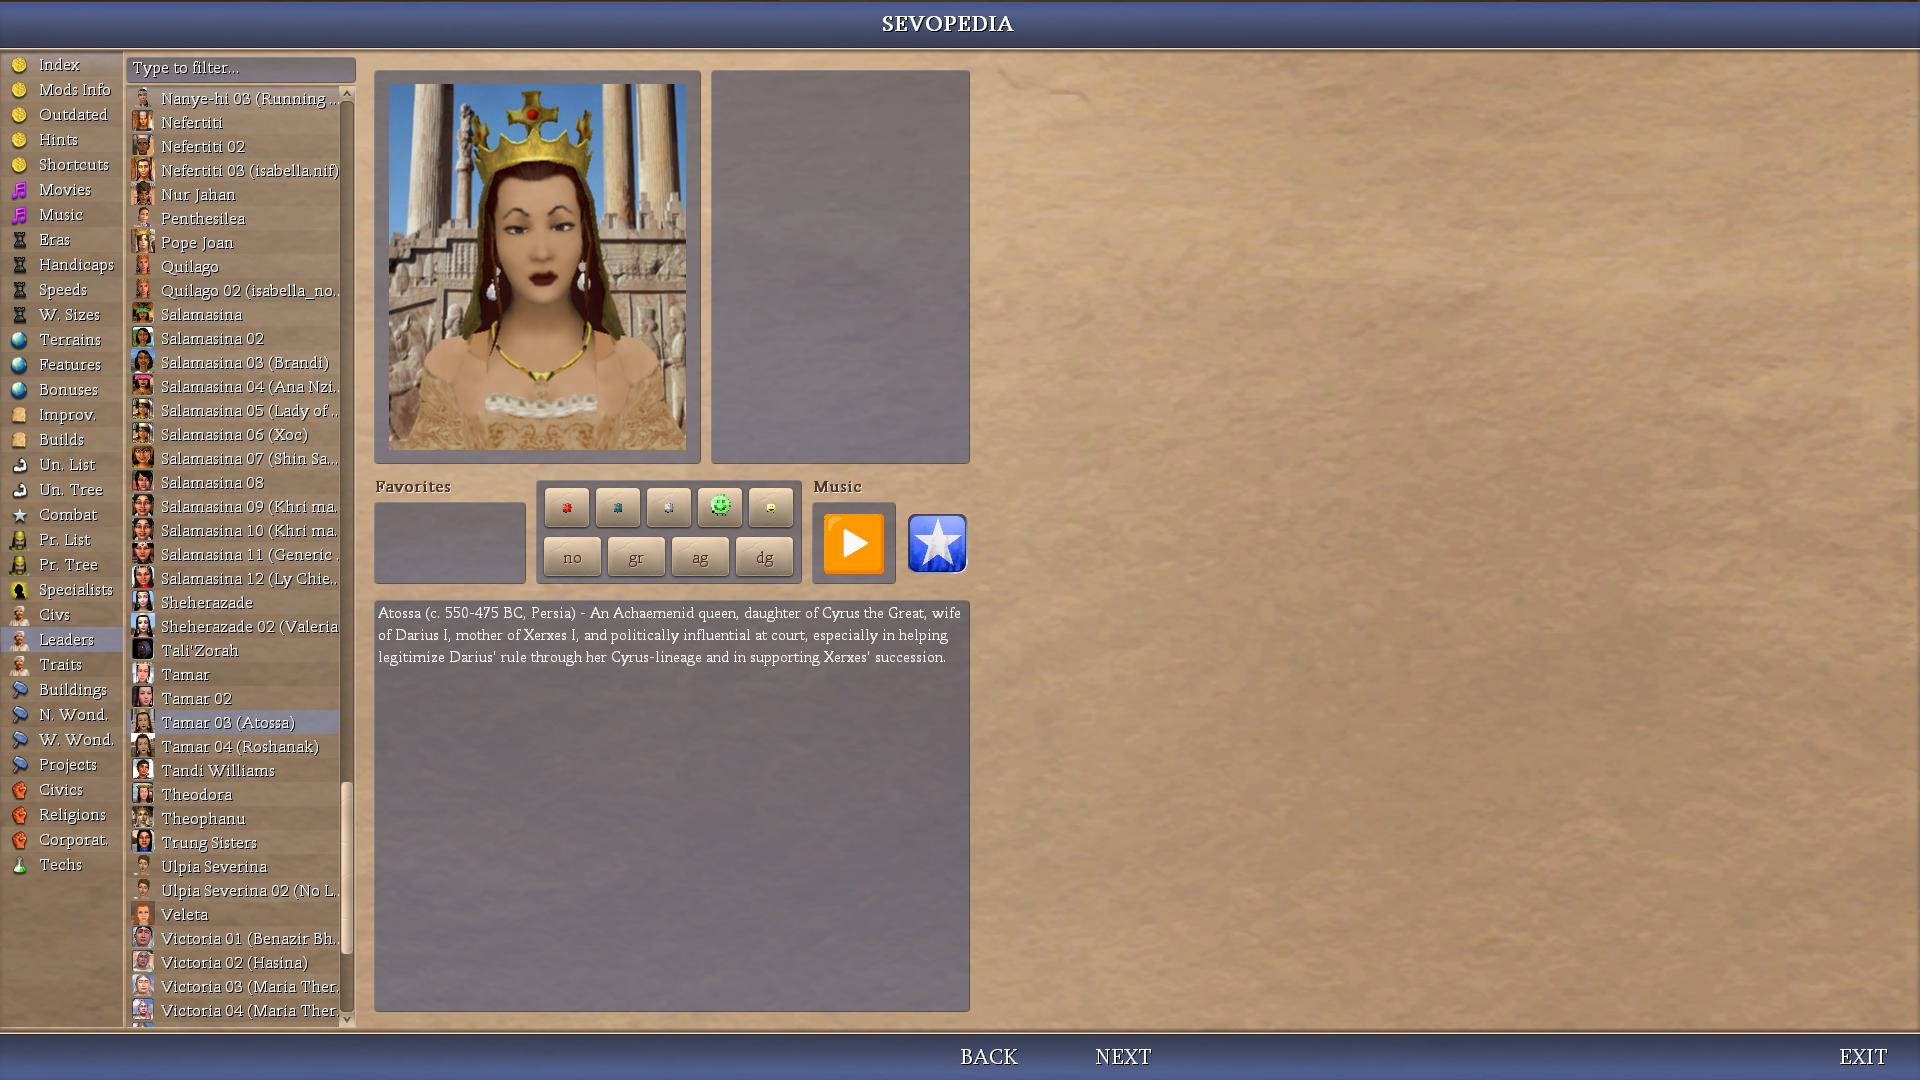
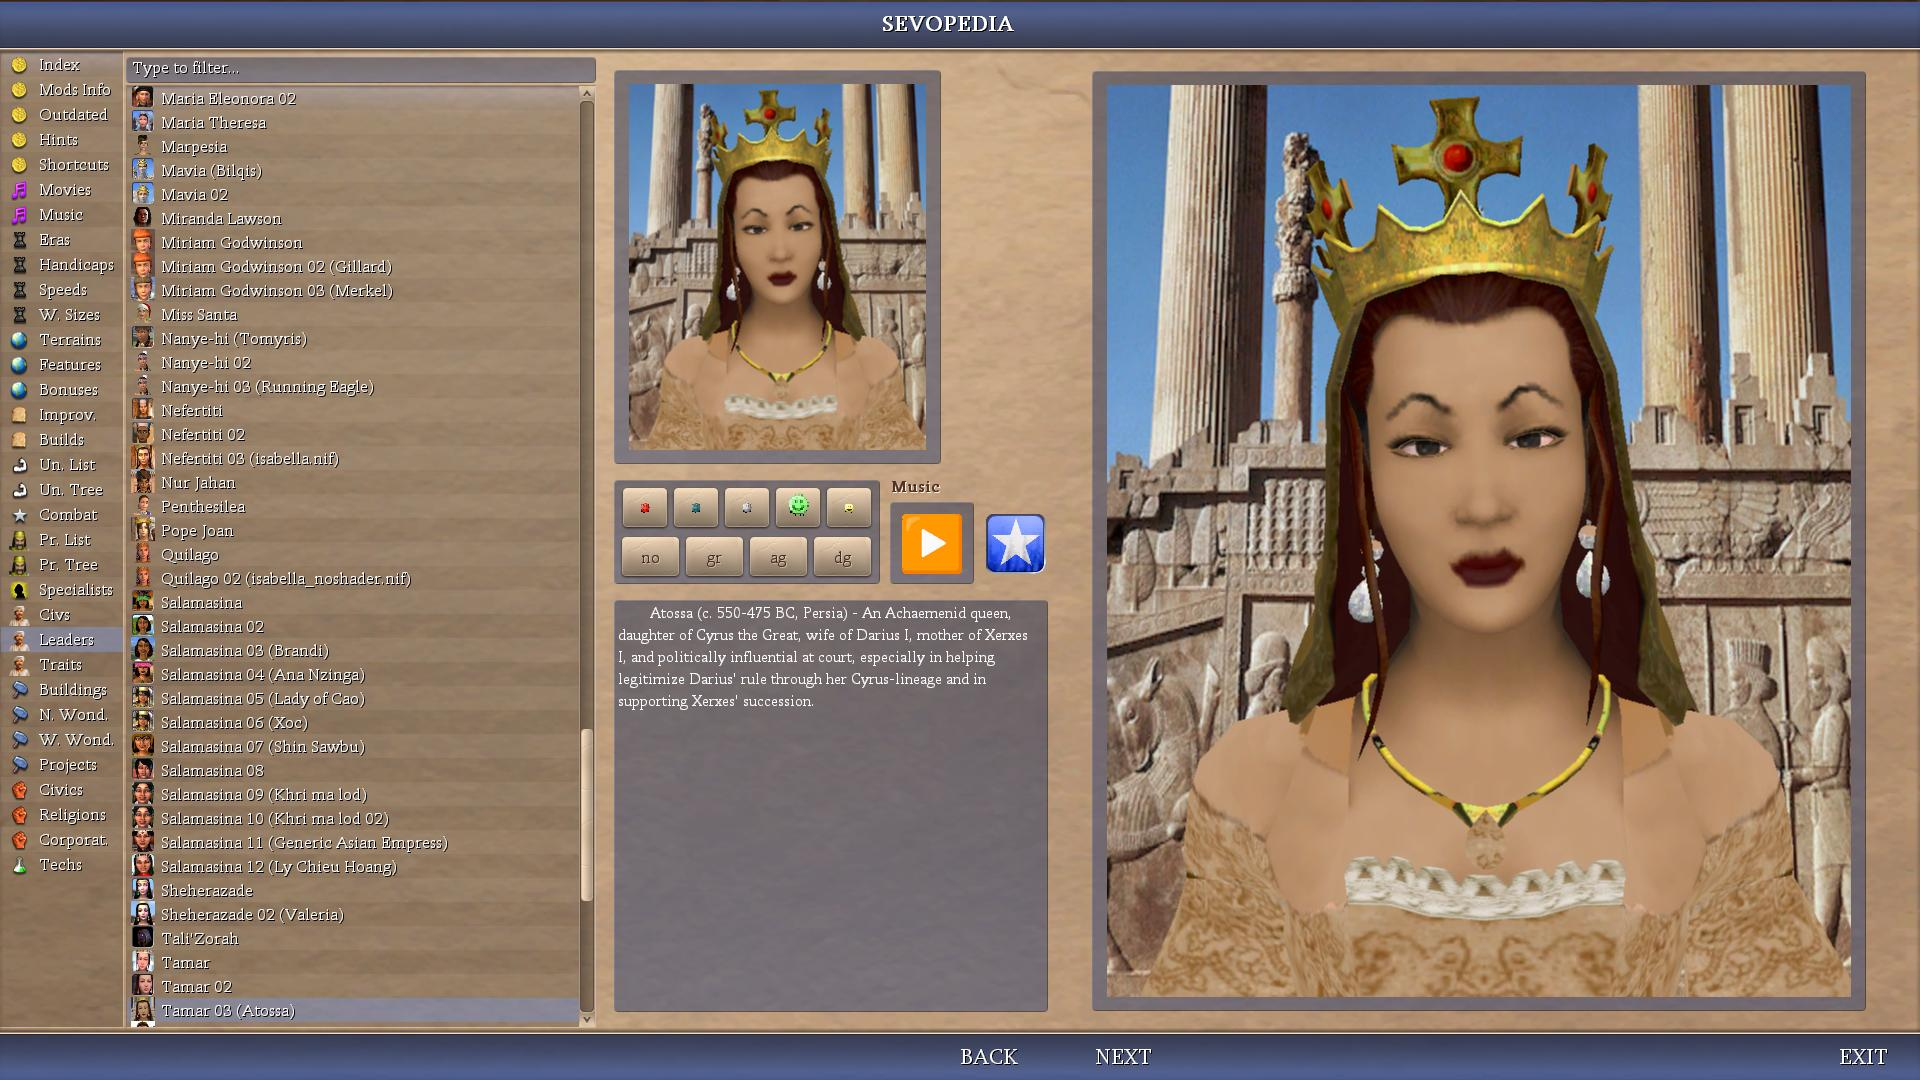
add large maximized NIF leader animation

diff --git a/Assets/Python/Contrib/Sevopedia/SevoPediaLeader.py b/Assets/Python/Contrib/Sevopedia/SevoPediaLeader.py
@@ -41,6 +41,8 @@ IS_SHOW_TRAIT_ICONS_IN_LEADER = (gc.getDefineINT("SAS_SEVOPEDIA_LEADER_TRAITS_SH
 IS_SAS_SHOW_LEGEND_LINK = (gc.getDefineINT("SAS_SHOW_LEGEND_LINK") > 0)
 IS_SAS_SEVOPEDIA_LEADER_AI_PERSONALITY_ENABLE = (gc.getDefineINT("SAS_SEVOPEDIA_LEADER_AI_PERSONALITY_ENABLE") > 0)
 IS_SAS_SEVOPEDIA_LEADER_ATTITUDE_EMOJI_ENABLE = (gc.getDefineINT("SAS_SEVOPEDIA_LEADER_ATTITUDE_EMOJI_ENABLE") > 0)
+IS_SAS_SEVOPEDIA_LEADER_SMALL_NIF_ENABLE = (gc.getDefineINT("SAS_SEVOPEDIA_LEADER_SMALL_NIF_ENABLE") > 0)
+IS_SAS_SEVOPEDIA_LEADER_LARGE_NIF_ENABLE = (gc.getDefineINT("SAS_SEVOPEDIA_LEADER_LARGE_NIF_ENABLE") > 0)
 SAS_PEDIA_PYTHON_LEADER_ATTITUDE = 6805
 SAS_PEDIA_PYTHON_LEADER_ACTION = 6806
 SAS_LEADER_ATTITUDE_PREVIEW_ORDER = (
@@ -118,6 +120,10 @@ class SevoPediaLeader:
 		self.H_CIV = 64
 		self.CIV_MARGIN = 0
 		self.CIV_DISELEVATION = 38
+		self.leaderWidget = None
+		self.leaderWidgetLarge = None
+		self.LEADERHEAD_LARGE_PANEL_WIDGET = None
+		self.IS_LARGE_LEADERHEAD_ACTIVE = False
 		
 		self.H_FAVORITES = NON_MULTILIST_PANEL_STANDARD_HEIGHT
 		self.N_AI_TABLE_NUM = 3
@@ -147,6 +153,7 @@ class SevoPediaLeader:
 	def _updateLayoutFromMain(self):
 		self.X_LEADERHEAD_PANE = self.top.X_PEDIA_PAGE
 		self.Y_LEADERHEAD_PANE = self.top.Y_PEDIA_PAGE
+		self.IS_COMPACT_LAYOUT_FOR_LARGE_NIF = (IS_SAS_SEVOPEDIA_LEADER_LARGE_NIF_ENABLE and not IS_SAS_SEVOPEDIA_LEADER_AI_PERSONALITY_ENABLE)
 
 		# <!-- custom: 2) (most) relative dimensions or positions then -->
 		self.W_LEADERHEAD = self.W_LEADERHEAD_PANE - 30
@@ -174,15 +181,24 @@ class SevoPediaLeader:
 
 		# <!-- custom: Favorites panel only needs two icons (favorite civic/religion), so size it with shared helper for a strict two-button layout. (GPT-5.3-Codex) -->
 		self.W_FAVORITES = get_panel_width_for_buttons(2, MULTILIST_BUTTON_SIZE, HYPOTHESIZED_NON_MULTILIST_PANEL_EDGE_PADDING, HYPOTHESIZED_NON_MULTILIST_PANEL_INTER_BUTTON_SPACING)
+		if self.IS_COMPACT_LAYOUT_FOR_LARGE_NIF:
+			self.W_HISTORY = max(0, self.W_HISTORY - (self.W_FAVORITES + self.SMALL_MARGIN))
 		# <!-- custom: layout order tweak: Favorites at left, then Music, then civ icon at far right. (GPT-5.3-Codex) -->
 		self.X_FAVORITES = self.X_LEADERHEAD_PANE
-		self.X_MUSIC = self.X_HISTORY + self.W_HISTORY - self.W_CIV - self.SMALL_MARGIN - self.W_MUSIC
 		self.Y_MUSIC = self.Y_FAVORITES
 		self.H_MUSIC = self.H_FAVORITES
-		self.X_ATTITUDES = self.X_FAVORITES + self.W_FAVORITES + self.SMALL_MARGIN
 		self.Y_ATTITUDES = self.Y_FAVORITES
-		self.W_ATTITUDES = self.X_MUSIC - self.X_ATTITUDES - self.SMALL_MARGIN
 		self.H_ATTITUDES = self.H_FAVORITES
+		if self.IS_COMPACT_LAYOUT_FOR_LARGE_NIF:
+			self.X_ATTITUDES = self.X_LEADERHEAD_PANE
+			self.W_ATTITUDES = self.W_HISTORY - self.W_MUSIC - self.W_CIV - (2 * self.SMALL_MARGIN)
+			if self.W_ATTITUDES < 0:
+				self.W_ATTITUDES = 0
+			self.X_MUSIC = self.X_ATTITUDES + self.W_ATTITUDES + self.SMALL_MARGIN
+		else:
+			self.X_MUSIC = self.X_HISTORY + self.W_HISTORY - self.W_CIV - self.SMALL_MARGIN - self.W_MUSIC
+			self.X_ATTITUDES = self.X_FAVORITES + self.W_FAVORITES + self.SMALL_MARGIN
+			self.W_ATTITUDES = self.X_MUSIC - self.X_ATTITUDES - self.SMALL_MARGIN
 
 		# <!-- custom: the rest of the coordinates here, as it is dependent on other coordinates we need first that (i.e. before being able to add these) -->
 		self.X_AI_PERSONALITY = self.top.R_PEDIA_PAGE - self.W_AI_PERSONALITY
@@ -193,8 +209,12 @@ class SevoPediaLeader:
 		self.Y_TRAITS = self.Y_LEADERHEAD_PANE
 		self.W_TRAITS = self.W_HISTORY - self.W_LEADERHEAD_PANE - self.SMALL_MARGIN
 		self.H_TRAITS = self.H_LEADERHEAD_PANE
+		self._updateLargeLeaderheadLayout()
 
-		self.X_CIV = self.X_HISTORY + self.W_HISTORY - self.CIV_MARGIN - self.W_CIV
+		if self.IS_COMPACT_LAYOUT_FOR_LARGE_NIF:
+			self.X_CIV = self.X_MUSIC + self.W_MUSIC + self.SMALL_MARGIN
+		else:
+			self.X_CIV = self.X_HISTORY + self.W_HISTORY - self.CIV_MARGIN - self.W_CIV
 		# <!-- custom: put the flag/civ at the middle Y of the favourites panel -->
 		# <!-- custom: quite high as compared to favourites panel's lowest point -->
 		self.Y_CIV = self.Y_FAVORITES + self.CIV_DISELEVATION
@@ -207,12 +227,15 @@ class SevoPediaLeader:
 
 		# <!-- custom: change call order to match filling/building order, generally from top left to bottom and left to right but not always, reordering in such a way is maybe a bit more intuitive this way perhaps or clearer or helpful or not or other etc anyways, -->
 		self.placeLeaderHeadPane()
-		self.placeFavorites()
+		self.placeLargeLeaderHeadPane()
+		if not self.IS_COMPACT_LAYOUT_FOR_LARGE_NIF:
+			self.placeFavorites()
 		self.placeMusic()
 		self.placeAttitudes()
 		self.placeHistory()
 		self.placeCiv()
-		self.placeTraits()
+		if not self.IS_LARGE_LEADERHEAD_ACTIVE:
+			self.placeTraits()
 		self.placeLegendLink()
 
 		# <!-- custom: for excluded leader indexes from calculations, leave the zone/space where the AI personality panel was supposed to be especially empty, instead of getting a key error or missing leader from leaders_info_cached; Long_Comments_py.txt #10 -->
@@ -227,11 +250,86 @@ class SevoPediaLeader:
 
 	# <!-- custom: wrap leader placement in a specific function for clarity or flexibility or not anyways, -->
 	def placeLeaderHeadPane(self):
+		if not IS_SAS_SEVOPEDIA_LEADER_SMALL_NIF_ENABLE:
+			self.leaderWidget = None
+			return
 		screen = self.top.getScreen()
 		leaderPanelWidget = self.top.getNextWidgetName()
 		screen.addPanel(leaderPanelWidget, "", "", True, True, self.X_LEADERHEAD_PANE, self.Y_LEADERHEAD_PANE, self.W_LEADERHEAD_PANE, self.H_LEADERHEAD_PANE, PanelStyles.PANEL_STYLE_BLUE50)
 		self.leaderWidget = self.top.getNextWidgetName()
 		screen.addLeaderheadGFC(self.leaderWidget, self.iLeader, self.iSelectedAttitude, self.X_LEADERHEAD, self.Y_LEADERHEAD, self.W_LEADERHEAD, self.H_LEADERHEAD, WidgetTypes.WIDGET_GENERAL, -1, -1)
+
+
+	# <!-- custom: optional large right-side leader animation for NIF gallery browsing; it keeps the same pane ratio as the main leader panel and scales to the largest size that fits the available right-side area. (GPT-5.3-Codex) -->
+	def _updateLargeLeaderheadLayout(self):
+		self.IS_LARGE_LEADERHEAD_ACTIVE = False
+		self.X_LEADERHEAD_LARGE_PANE = -1
+		self.Y_LEADERHEAD_LARGE_PANE = -1
+		self.W_LEADERHEAD_LARGE_PANE = 0
+		self.H_LEADERHEAD_LARGE_PANE = 0
+		self.X_LEADERHEAD_LARGE = -1
+		self.Y_LEADERHEAD_LARGE = -1
+		self.W_LEADERHEAD_LARGE = 0
+		self.H_LEADERHEAD_LARGE = 0
+
+		if not IS_SAS_SEVOPEDIA_LEADER_LARGE_NIF_ENABLE:
+			return
+		if IS_SAS_SEVOPEDIA_LEADER_AI_PERSONALITY_ENABLE:
+			return
+		if self.W_HISTORY <= 0:
+			return
+
+		# <!-- custom: use the true right-side reserve area (to the right of history/leader content), not the traits slot, so the large NIF fills that empty space. (GPT-5.3-Codex) -->
+		iAvailX = self.X_HISTORY + self.W_HISTORY + self.SMALL_MARGIN
+		iAvailY = self.top.Y_PEDIA_PAGE
+		iAvailW = self.top.R_PEDIA_PAGE - iAvailX
+		iAvailH = self.top.B_PEDIA_PAGE - iAvailY
+		if iAvailW <= 0 or iAvailH <= 0:
+			return
+		iPaneRatioW = self.W_LEADERHEAD_PANE
+		iPaneRatioH = self.H_LEADERHEAD_PANE
+
+		iFitW = min(iAvailW, (iAvailH * iPaneRatioW) / iPaneRatioH)
+		iFitH = (iFitW * iPaneRatioH) / iPaneRatioW
+		if iFitH > iAvailH:
+			iFitH = iAvailH
+			iFitW = (iFitH * iPaneRatioW) / iPaneRatioH
+		if iFitW <= 0 or iFitH <= 0:
+			return
+
+		self.X_LEADERHEAD_LARGE_PANE = iAvailX + (iAvailW - iFitW) / 2
+		self.Y_LEADERHEAD_LARGE_PANE = iAvailY + (iAvailH - iFitH) / 2
+		self.W_LEADERHEAD_LARGE_PANE = iFitW
+		self.H_LEADERHEAD_LARGE_PANE = iFitH
+
+		self.W_LEADERHEAD_LARGE = self.W_LEADERHEAD_LARGE_PANE - 30
+		self.H_LEADERHEAD_LARGE = self.H_LEADERHEAD_LARGE_PANE - 34
+		if self.W_LEADERHEAD_LARGE <= 0 or self.H_LEADERHEAD_LARGE <= 0:
+			return
+		self.X_LEADERHEAD_LARGE = self.X_LEADERHEAD_LARGE_PANE + (self.W_LEADERHEAD_LARGE_PANE - self.W_LEADERHEAD_LARGE) / 2
+		self.Y_LEADERHEAD_LARGE = self.Y_LEADERHEAD_LARGE_PANE + (self.H_LEADERHEAD_LARGE_PANE - self.H_LEADERHEAD_LARGE) / 2 + 3
+		self.IS_LARGE_LEADERHEAD_ACTIVE = True
+
+
+	def placeLargeLeaderHeadPane(self):
+		if not self.IS_LARGE_LEADERHEAD_ACTIVE:
+			self.leaderWidgetLarge = None
+			return
+		screen = self.top.getScreen()
+		self.LEADERHEAD_LARGE_PANEL_WIDGET = self.top.getNextWidgetName()
+		screen.addPanel(self.LEADERHEAD_LARGE_PANEL_WIDGET, "", "", True, True, self.X_LEADERHEAD_LARGE_PANE, self.Y_LEADERHEAD_LARGE_PANE, self.W_LEADERHEAD_LARGE_PANE, self.H_LEADERHEAD_LARGE_PANE, PanelStyles.PANEL_STYLE_BLUE50)
+		self.leaderWidgetLarge = self.top.getNextWidgetName()
+		screen.addLeaderheadGFC(self.leaderWidgetLarge, self.iLeader, self.iSelectedAttitude, self.X_LEADERHEAD_LARGE, self.Y_LEADERHEAD_LARGE, self.W_LEADERHEAD_LARGE, self.H_LEADERHEAD_LARGE, WidgetTypes.WIDGET_GENERAL, -1, -1)
+
+
+	# <!-- custom: return currently active leaderhead widget IDs (small and/or large) so actions/key input keep working when one panel is disabled. (GPT-5.3-Codex) -->
+	def _getActiveLeaderWidgets(self):
+		listWidgets = []
+		if self.leaderWidget is not None:
+			listWidgets.append(self.leaderWidget)
+		if self.leaderWidgetLarge is not None:
+			listWidgets.append(self.leaderWidgetLarge)
+		return listWidgets
 
 
 
@@ -365,8 +463,12 @@ class SevoPediaLeader:
 		if self.iLeader < 0:
 			return 0
 		screen = self.top.getScreen()
-		screen.deleteWidget(self.leaderWidget)
-		screen.addLeaderheadGFC(self.leaderWidget, self.iLeader, self.iSelectedAttitude, self.X_LEADERHEAD, self.Y_LEADERHEAD, self.W_LEADERHEAD, self.H_LEADERHEAD, WidgetTypes.WIDGET_GENERAL, -1, -1)
+		if self.leaderWidget is not None:
+			screen.deleteWidget(self.leaderWidget)
+			screen.addLeaderheadGFC(self.leaderWidget, self.iLeader, self.iSelectedAttitude, self.X_LEADERHEAD, self.Y_LEADERHEAD, self.W_LEADERHEAD, self.H_LEADERHEAD, WidgetTypes.WIDGET_GENERAL, -1, -1)
+		if self.leaderWidgetLarge is not None:
+			screen.deleteWidget(self.leaderWidgetLarge)
+			screen.addLeaderheadGFC(self.leaderWidgetLarge, self.iLeader, self.iSelectedAttitude, self.X_LEADERHEAD_LARGE, self.Y_LEADERHEAD_LARGE, self.W_LEADERHEAD_LARGE, self.H_LEADERHEAD_LARGE, WidgetTypes.WIDGET_GENERAL, -1, -1)
 		return 1
 
 
@@ -543,11 +645,14 @@ class SevoPediaLeader:
 		# consider removing or remapping here. (GPT-5.2-Codex) -->
 		if (inputClass.getNotifyCode() == NotifyCode.NOTIFY_CHARACTER):
 			if (inputClass.getData() == int(InputTypes.KB_0)):
-				self.top.getScreen().performLeaderheadAction(self.leaderWidget, LeaderheadAction.LEADERANIM_GREETING)
+				for szWidget in self._getActiveLeaderWidgets():
+					self.top.getScreen().performLeaderheadAction(szWidget, LeaderheadAction.LEADERANIM_GREETING)
 			elif (inputClass.getData() == int(InputTypes.KB_6)):
-				self.top.getScreen().performLeaderheadAction(self.leaderWidget, LeaderheadAction.LEADERANIM_DISAGREE)
+				for szWidget in self._getActiveLeaderWidgets():
+					self.top.getScreen().performLeaderheadAction(szWidget, LeaderheadAction.LEADERANIM_DISAGREE)
 			elif (inputClass.getData() == int(InputTypes.KB_7)):
-				self.top.getScreen().performLeaderheadAction(self.leaderWidget, LeaderheadAction.LEADERANIM_AGREE)
+				for szWidget in self._getActiveLeaderWidgets():
+					self.top.getScreen().performLeaderheadAction(szWidget, LeaderheadAction.LEADERANIM_AGREE)
 			elif (inputClass.getData() == int(InputTypes.KB_1)):
 				return self.applyLeaderAttitude(AttitudeTypes.ATTITUDE_FRIENDLY)
 			elif (inputClass.getData() == int(InputTypes.KB_2)):
@@ -559,7 +664,8 @@ class SevoPediaLeader:
 			elif (inputClass.getData() == int(InputTypes.KB_5)):
 				return self.applyLeaderAttitude(AttitudeTypes.ATTITUDE_FURIOUS)
 			else:
-				self.top.getScreen().leaderheadKeyInput(self.leaderWidget, inputClass.getData())
+				for szWidget in self._getActiveLeaderWidgets():
+					self.top.getScreen().leaderheadKeyInput(szWidget, inputClass.getData())
 		return 0
 
 
@@ -574,5 +680,6 @@ class SevoPediaLeader:
 
 
 	def applyLeaderAction(self, iAction):
-		self.top.getScreen().performLeaderheadAction(self.leaderWidget, iAction)
+		for szWidget in self._getActiveLeaderWidgets():
+			self.top.getScreen().performLeaderheadAction(szWidget, iAction)
 		return 1

diff --git a/README.md b/README.md
@@ -3,13 +3,12 @@
 This mod is a modified version of [AdvCiv-SAS (Simple Advanced Strategy)](https://github.com/wonderingabout/AdvCiv-SAS) ([Discussion thread here](https://forums.civfanatics.com/threads/advciv-sas-simple-advanced-strategy.699716/)), aiming to:
 
 - use it as a NIF gallery mod (non-playable)
-- make browsing much easier with the help of AdvCiv-SAS' sevopedia (search bar, keyboard UP/DOWN navigation, leader animation attitude (furious, annoyed, cautious, pleased, friendly) and action (noanim, greeting, agree, disagree) buttons) plus further adjustments (e.g., Leader gallery in sevopedia civilization)
+- make browsing much easier with the help of AdvCiv-SAS' sevopedia (search bar, keyboard UP/DOWN navigation, leader animation attitude (furious, annoyed, cautious, pleased, friendly) and action (noanim, greeting, agree, disagree) buttons) 
+- add further adjustments (e.g., Leader gallery in sevopedia civilization, optionally maximized leader NIF animation in sevopedia leader)
 - aggressively strip almost all assets (so it is lighter and since we don't need them), notably using `minOccurs="0"` for almost all leaderHead XML info, or by adding or modifying to functionally  empty base Civ4 XML like [CIV4PlotLSystem.xml](/Assets/XML/Buildings/CIV4PlotLSystem.xml) or [CIV4GameText_Events_BTS.xml](/Assets/XML/Text/CIV4GameText_Events_BTS.xml) (with a focus on heaviest ones using Wiztree to find them), resulting in very compact and lightweight XML mod (suits minimal leaderhead NIF Gallery need).
-- fix animations that had errors (e.g., Salasamina_3, Tandi Williams, etc.) or risky file structure design (e.g., Isabella_5 hard requiring folder name to be Isabella which risks conflicting with base BTS one: fixed by reimporting o, our NIF-Gallery mod all civ4 files from base civ4 (`Art0.FPK`) so leaderhead is modular)
+- fix animations that had errors (e.g., Salasamina_3, Tandi Williams, etc.) or risky file structure design (e.g., Isabella_5 hard requiring folder name to be Isabella which risks conflicting with base BTS one: fixed by reimporting in our NIF-Gallery mod all civ4 files from base civ4 (`Art0.FPK`) so leaderhead is modular)
 - add buttons for leaderheads that had none (e.g. Pope Joan), as of now a no border button to help identify the leader
 - leaderhead XML naming rule: reusing base Civ4 leader IDs as-is is forbidden (e.g., do not use `LEADER_BOUDICA` / `ART_DEF_LEADER_BOUDICA` for custom entries). Suffix from the first custom variant (e.g., `LEADER_BOUDICA_1`, `ART_DEF_LEADER_BOUDICA_1`) to avoid conflicts and hidden dependencies. `ZENOBIA` naming is fine only when it is not a base-Civ4 leader ID. If not enforced, while some leaders may run, it is likely to cause issues in the long run one way or another, so we do not use base civ4 names for leaders (`_1` suffix is added to said name instead).
-
-Since it is based on AdvCiv-SAS, you can notably use AdvCiv-SAS features like keyboard UP/DOWN navigation and search bar in Sevopedia.
 
 For documentation, see AdvCiv-SAS' github page rather.
 
